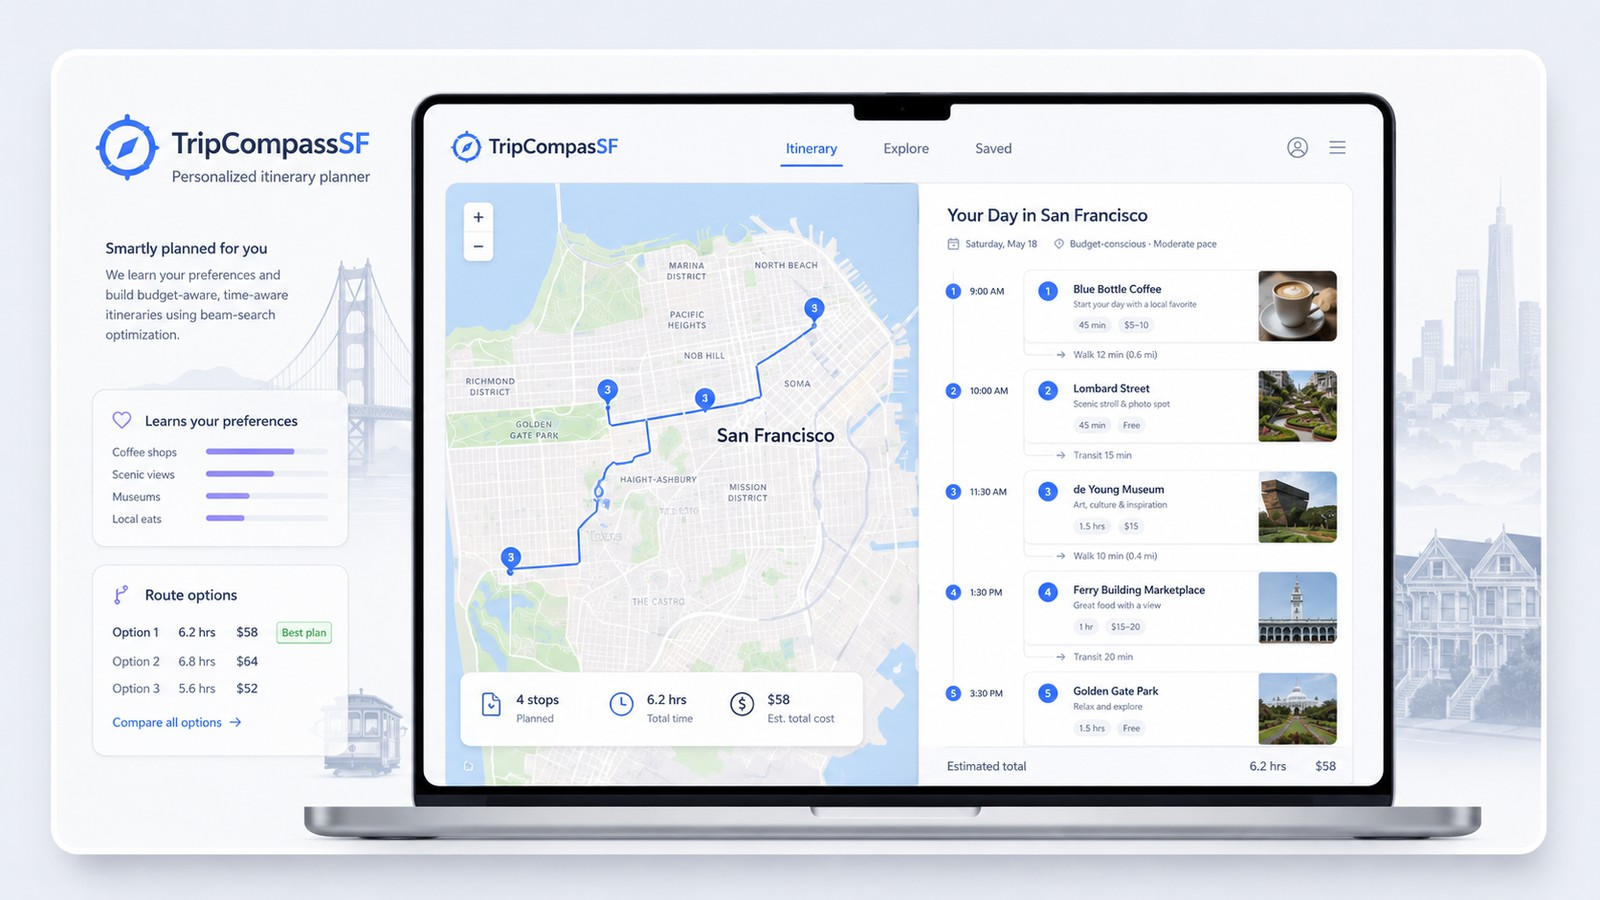
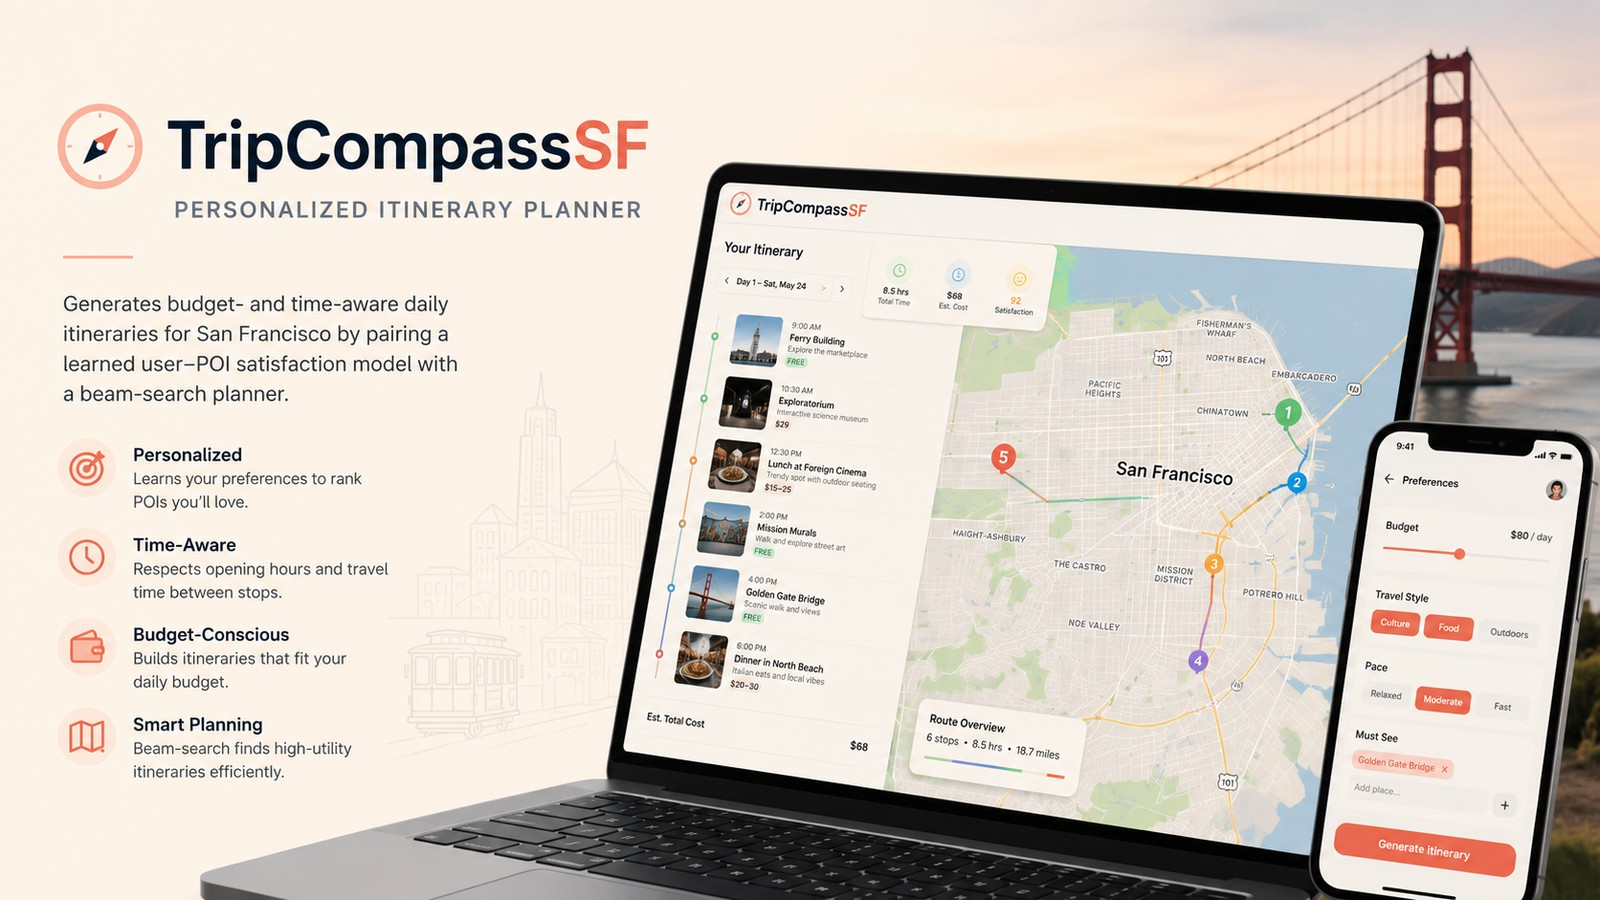
Swap Fontan/TripCompass images, add centrifuge photo, drop V3 label
- Fontan thesis: replace 3D-model-only image with a full pipeline
  illustration (3D model -> stent -> CFD, plus before/after pressure
  comparison).
- TripCompassSF: swap in an updated promo render (laptop + phone
  mockup with feature callouts).
- Centrifuge: add a real photo of the built prototype, and drop the
  "V3" label (slug + title) since it was just an in-class milestone
  name, not a public-facing identifier.

diff --git a/src/data/projects.ts b/src/data/projects.ts
@@ -99,7 +99,7 @@ export const projects: Project[] = [
     featured: true,
     year: "2026",
     image: "/images/projects/fontan-virtual-stenting.jpg",
-    imageAlt: "Reconstructed 3D patient-specific model of the Fontan circulation",
+    imageAlt: "Pipeline from 3D patient model to virtual stent placement to CFD pressure simulation, with a before/after pressure comparison",
     role: "Honors Thesis · Marsden Lab (advisor: Dr. Alison Marsden)",
     highlights: [
       "Engineered a patient-specific 3D modeling and simulation pipeline: vessel pathing, segmentation, volumetric meshing, and centerline generation in SimVascular.",
@@ -187,14 +187,16 @@ export const projects: Project[] = [
     links: [],
   },
   {
-    slug: "v3-centrifuge",
-    title: "V3 Centrifuge — Phase-Aware Notifications",
+    slug: "centrifuge",
+    title: "Centrifuge — Phase-Aware Notifications",
     summary:
       "Redesigned a benchtop centrifuge with color-coded visual and auditory cues for each operation phase, so users can safely step away during long runs.",
     category: "Research",
     tags: ["Embedded Systems", "Hardware", "UX", "Bioengineering"],
     featured: false,
     year: "2024",
+    image: "/images/projects/centrifuge.jpg",
+    imageAlt: "The rebuilt centrifuge prototype with its LCD control display reading \"Press Start To Begin\"",
     role: "Team 17 — Bioengineering Design",
     highlights: [
       "Added color-coded phase indicators (pre-run, centrifugation, post-run) and audible cues at run start and finish.",